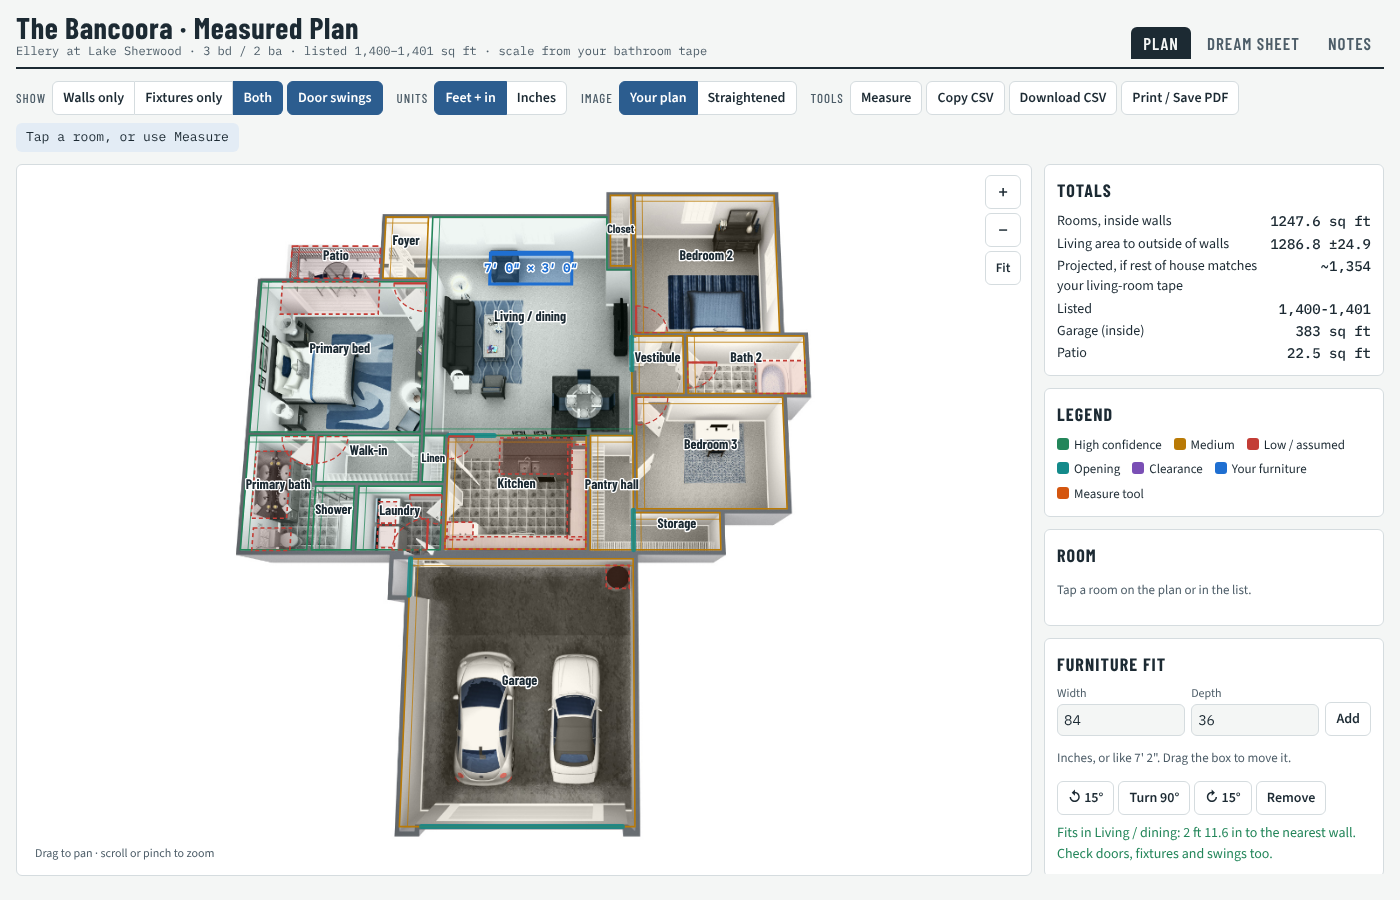
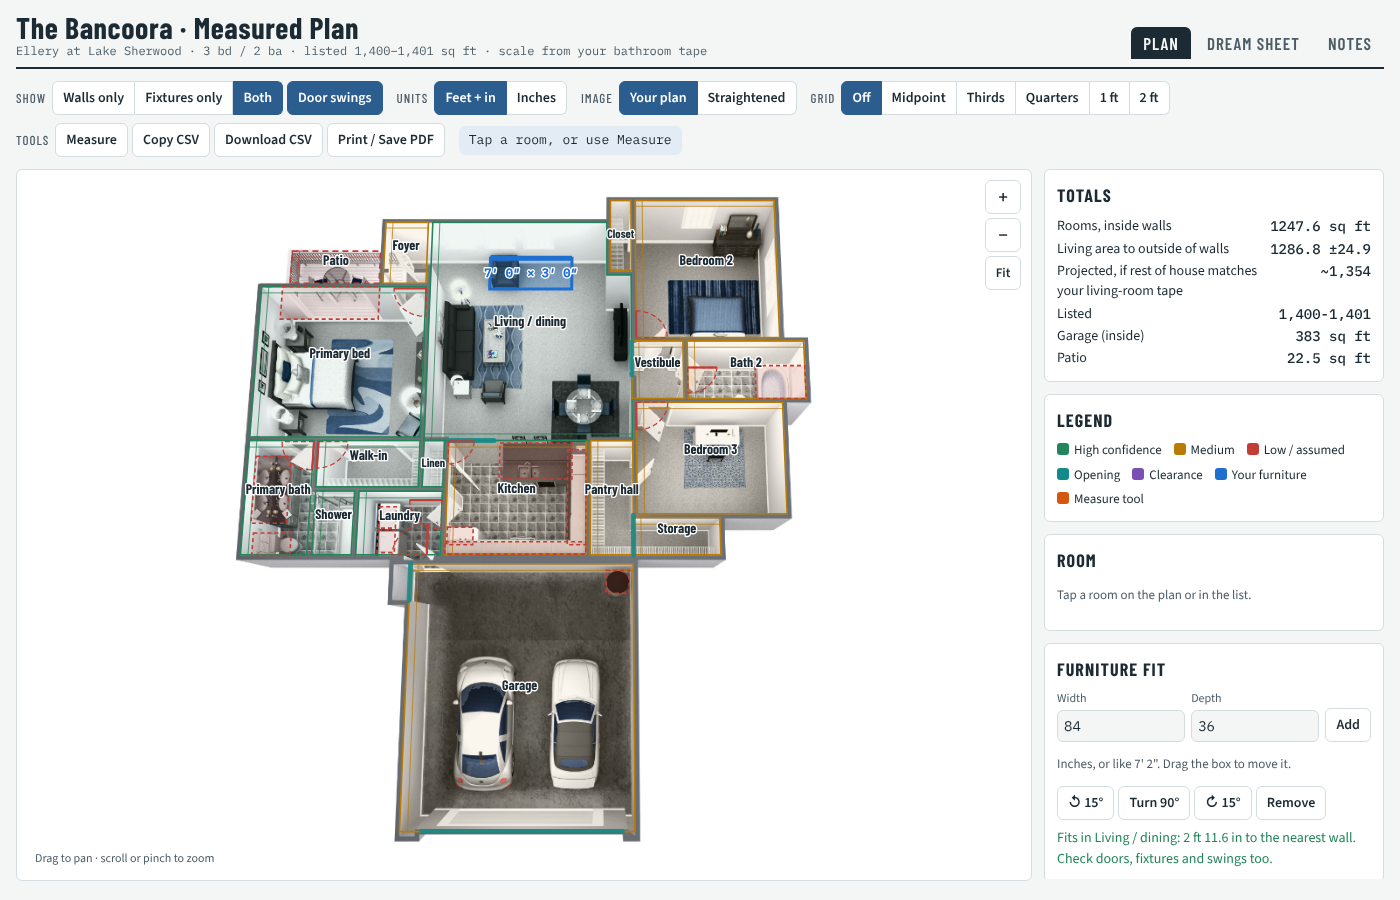
Add room grid (midpoint, thirds, quarters, 1 ft, 2 ft) with center point and wall distances
Claude-Session: https://claude.ai/code/session_013BUhmcHRt4UubDoSH6qQqY

diff --git a/floorplan/bancoora_viewer.html b/floorplan/bancoora_viewer.html
@@ -127,6 +127,11 @@ svg .lab-room{font-family:var(--font-display);font-weight:700}
         <button id="v-orig" aria-pressed="true">Your plan</button><button id="v-str" aria-pressed="false">Straightened</button>
       </div>
     </div>
+    <div class="grp"><span class="lbl">Grid</span>
+      <div class="seg" role="group" aria-label="Room grid">
+        <button id="g-off" data-g="off" aria-pressed="true">Off</button><button data-g="2" aria-pressed="false">Midpoint</button><button data-g="3" aria-pressed="false">Thirds</button><button data-g="4" aria-pressed="false">Quarters</button><button data-g="12" aria-pressed="false">1 ft</button><button data-g="24" aria-pressed="false">2 ft</button>
+      </div>
+    </div>
     <div class="grp"><span class="lbl">Tools</span>
       <button id="t-measure" aria-pressed="false">Measure</button>
       <button id="b-csv">Copy CSV</button>
@@ -242,9 +247,9 @@ function draw(){
   const c=color(r.confidence), sel=selRoom===r.id;
   const p=poly(r.poly||[[r.x0,r.y0],[r.x1,r.y0],[r.x1,r.y1],[r.x0,r.y1]],{fill:c,'fill-opacity':sel?0.22:0.07,stroke:c,'stroke-width':sel?3:1.6,'vector-effect':'non-scaling-stroke','stroke-dasharray':r.id==='P'?'6 4':'none',style:'cursor:pointer'},gRooms);
   p.addEventListener('click',e=>{if(measuring||dragging)return;selectRoom(r.id,false)});
-  const cx=(r.x0+r.x1)/2, cy=(r.y0+r.y1)/2, small=r.w_in<30||r.d_in<30;
-  text(cx,cy-(small?0:7),SHORT[r.id]||r.name,'lab-room',{fill:css('--ink'),'font-size':small?'1em':'1.15em'},gLab);
-  if(!small){text(cx,cy+7,`${r.scaled?'≈ ':''}${L(r.w_in)} × ${L(r.d_in)}`,'lab-sub',{fill:css('--ink-2')},gLab);text(cx,cy+19,`${r.sqft} sq ft`,'lab-sub',{fill:c},gLab)}
+  const cx=(r.x0+r.x1)/2, cy=(r.y0+r.y1)/2, small=r.w_in<30||r.d_in<30, gridded=gridMode!=='off'&&selRoom===r.id;
+  if(!gridded)text(cx,cy-(small?0:7),SHORT[r.id]||r.name,'lab-room',{fill:css('--ink'),'font-size':small?'1em':'1.15em'},gLab);
+  if(!small&&!gridded){text(cx,cy+7,`${r.scaled?'≈ ':''}${L(r.w_in)} × ${L(r.d_in)}`,'lab-sub',{fill:css('--ink-2')},gLab);text(cx,cy+19,`${r.sqft} sq ft`,'lab-sub',{fill:c},gLab)}
   if(showW&&!small){ // dimension lines inside room: width near north wall, depth near west wall
    const o=7;
    const wy=r.poly?r.y1-o:r.y0+o; dim([r.x0,wy],[r.x1,wy],r.w_in,c,gWalls,false,r.scaled);
@@ -275,8 +280,36 @@ function draw(){
   pline([[hx,hy],...arc,[hx,hy]],{stroke:css('--lo'),'stroke-width':1.3,'stroke-dasharray':'5 3',fill:css('--lo'),'fill-opacity':0.06,'vector-effect':'non-scaling-stroke'},gDoors);
   pline([[hx,hy],open],{stroke:css('--lo'),'stroke-width':2.2,'vector-effect':'non-scaling-stroke'},gDoors);
  }
- drawFurn(); applyT();
+ drawGrid(); drawFurn(); applyT();
 }
+let gridMode='off';
+function drawGrid(){
+ if(gridMode==='off'||!selRoom)return;
+ const r=roomById[selRoom]; if(!r)return;
+ const P0=rpoly(r), gc=css('--tool'), gl=css('--blue');
+ const g=el('g',{'pointer-events':'none'},ov);
+ const cid='clip-'+r.id; const cp=el('clipPath',{id:cid},g); poly(P0,{},cp);
+ const lines=el('g',{'clip-path':`url(#${cid})`},g);
+ const W=r.w_in, Dd=r.d_in, sx=(r.x1-r.x0)/W, sy=(r.y1-r.y0)/Dd;   // true inches -> drawing units
+ let xs=[], ys=[];
+ if(['2','3','4'].includes(gridMode)){const n=+gridMode;for(let i=1;i<n;i++){xs.push(W*i/n);ys.push(Dd*i/n)}}
+ else{const st=+gridMode;for(let v=st;v<W-0.5;v+=st)xs.push(v);for(let v=st;v<Dd-0.5;v+=st)ys.push(v)}
+ const labs=el('g',{},g);
+ for(const v of xs){const x=r.x0+v*sx;pline([[x,r.y0],[x,r.y1]],{stroke:gl,'stroke-width':1.2,'stroke-dasharray':'6 4','vector-effect':'non-scaling-stroke'},lines);
+  if(['2','3','4'].includes(gridMode)||xs.length<=14)text(x,r.y0+5,L(v),'lab-dim',{fill:gl},labs)}
+ for(const v of ys){const y=r.y0+v*sy;pline([[r.x0,y],[r.x1,y]],{stroke:gl,'stroke-width':1.2,'stroke-dasharray':'6 4','vector-effect':'non-scaling-stroke'},lines);
+  if(['2','3','4'].includes(gridMode)||ys.length<=14){const t=text(r.x0+5,y,L(v),'lab-dim',{fill:gl},labs);const[u,w]=P(r.x0+5,y);t.setAttribute('transform',`rotate(-90 ${u} ${w})`)}}
+ // centre lines + centre point (always)
+ const cx=r.x0+(W/2)*sx, cy=r.y0+(Dd/2)*sy;
+ pline([[cx,r.y0],[cx,r.y1]],{stroke:gc,'stroke-width':2,'vector-effect':'non-scaling-stroke'},lines);
+ pline([[r.x0,cy],[r.x1,cy]],{stroke:gc,'stroke-width':2,'vector-effect':'non-scaling-stroke'},lines);
+ const[u,v]=P(cx,cy);el('circle',{cx:u,cy:v,r:5/k,fill:gc,stroke:css('--sheet'),'stroke-width':2/k},g);
+ text(cx,cy-9,`Center · ${L(W/2)} from W & E walls · ${L(Dd/2)} from N & S walls`,'',{fill:gc,'font-weight':'600'},g);
+ $('#readout').textContent=`${r.name} center: ${LL(W/2)} from the side walls, ${LL(Dd/2)} from the front/back walls`+(r.poly?' (L-shaped room: center of its full outline)':'');
+}
+function setGrid(m){gridMode=m;document.querySelectorAll('[data-g]').forEach(b=>b.setAttribute('aria-pressed',b.dataset.g===m));
+ if(m!=='off'&&!selRoom)$('#readout').textContent='Tap a room to grid it';draw()}
+document.querySelectorAll('[data-g]').forEach(b=>b.onclick=()=>setGrid(b.dataset.g));
 function dim(a,b,val,c,parent,vert,approx){
  pline([a,b],{stroke:c,'stroke-width':1,'vector-effect':'non-scaling-stroke','stroke-opacity':0.75},parent);
  for(const q of [a,b]){const t=vert?[[q[0]-3,q[1]],[q[0]+3,q[1]]]:[[q[0],q[1]-3],[q[0],q[1]+3]];pline(t,{stroke:c,'stroke-width':1,'vector-effect':'non-scaling-stroke'},parent)}

diff --git a/floorplan/stage5/bancoora_viewer_artifact.html b/floorplan/stage5/bancoora_viewer_artifact.html
@@ -127,6 +127,11 @@ svg .lab-room{font-family:var(--font-display);font-weight:700}
         <button id="v-orig" aria-pressed="true">Your plan</button><button id="v-str" aria-pressed="false">Straightened</button>
       </div>
     </div>
+    <div class="grp"><span class="lbl">Grid</span>
+      <div class="seg" role="group" aria-label="Room grid">
+        <button id="g-off" data-g="off" aria-pressed="true">Off</button><button data-g="2" aria-pressed="false">Midpoint</button><button data-g="3" aria-pressed="false">Thirds</button><button data-g="4" aria-pressed="false">Quarters</button><button data-g="12" aria-pressed="false">1 ft</button><button data-g="24" aria-pressed="false">2 ft</button>
+      </div>
+    </div>
     <div class="grp"><span class="lbl">Tools</span>
       <button id="t-measure" aria-pressed="false">Measure</button>
       <button id="b-csv">Copy CSV</button>
@@ -242,9 +247,9 @@ function draw(){
   const c=color(r.confidence), sel=selRoom===r.id;
   const p=poly(r.poly||[[r.x0,r.y0],[r.x1,r.y0],[r.x1,r.y1],[r.x0,r.y1]],{fill:c,'fill-opacity':sel?0.22:0.07,stroke:c,'stroke-width':sel?3:1.6,'vector-effect':'non-scaling-stroke','stroke-dasharray':r.id==='P'?'6 4':'none',style:'cursor:pointer'},gRooms);
   p.addEventListener('click',e=>{if(measuring||dragging)return;selectRoom(r.id,false)});
-  const cx=(r.x0+r.x1)/2, cy=(r.y0+r.y1)/2, small=r.w_in<30||r.d_in<30;
-  text(cx,cy-(small?0:7),SHORT[r.id]||r.name,'lab-room',{fill:css('--ink'),'font-size':small?'1em':'1.15em'},gLab);
-  if(!small){text(cx,cy+7,`${r.scaled?'≈ ':''}${L(r.w_in)} × ${L(r.d_in)}`,'lab-sub',{fill:css('--ink-2')},gLab);text(cx,cy+19,`${r.sqft} sq ft`,'lab-sub',{fill:c},gLab)}
+  const cx=(r.x0+r.x1)/2, cy=(r.y0+r.y1)/2, small=r.w_in<30||r.d_in<30, gridded=gridMode!=='off'&&selRoom===r.id;
+  if(!gridded)text(cx,cy-(small?0:7),SHORT[r.id]||r.name,'lab-room',{fill:css('--ink'),'font-size':small?'1em':'1.15em'},gLab);
+  if(!small&&!gridded){text(cx,cy+7,`${r.scaled?'≈ ':''}${L(r.w_in)} × ${L(r.d_in)}`,'lab-sub',{fill:css('--ink-2')},gLab);text(cx,cy+19,`${r.sqft} sq ft`,'lab-sub',{fill:c},gLab)}
   if(showW&&!small){ // dimension lines inside room: width near north wall, depth near west wall
    const o=7;
    const wy=r.poly?r.y1-o:r.y0+o; dim([r.x0,wy],[r.x1,wy],r.w_in,c,gWalls,false,r.scaled);
@@ -275,8 +280,36 @@ function draw(){
   pline([[hx,hy],...arc,[hx,hy]],{stroke:css('--lo'),'stroke-width':1.3,'stroke-dasharray':'5 3',fill:css('--lo'),'fill-opacity':0.06,'vector-effect':'non-scaling-stroke'},gDoors);
   pline([[hx,hy],open],{stroke:css('--lo'),'stroke-width':2.2,'vector-effect':'non-scaling-stroke'},gDoors);
  }
- drawFurn(); applyT();
+ drawGrid(); drawFurn(); applyT();
 }
+let gridMode='off';
+function drawGrid(){
+ if(gridMode==='off'||!selRoom)return;
+ const r=roomById[selRoom]; if(!r)return;
+ const P0=rpoly(r), gc=css('--tool'), gl=css('--blue');
+ const g=el('g',{'pointer-events':'none'},ov);
+ const cid='clip-'+r.id; const cp=el('clipPath',{id:cid},g); poly(P0,{},cp);
+ const lines=el('g',{'clip-path':`url(#${cid})`},g);
+ const W=r.w_in, Dd=r.d_in, sx=(r.x1-r.x0)/W, sy=(r.y1-r.y0)/Dd;   // true inches -> drawing units
+ let xs=[], ys=[];
+ if(['2','3','4'].includes(gridMode)){const n=+gridMode;for(let i=1;i<n;i++){xs.push(W*i/n);ys.push(Dd*i/n)}}
+ else{const st=+gridMode;for(let v=st;v<W-0.5;v+=st)xs.push(v);for(let v=st;v<Dd-0.5;v+=st)ys.push(v)}
+ const labs=el('g',{},g);
+ for(const v of xs){const x=r.x0+v*sx;pline([[x,r.y0],[x,r.y1]],{stroke:gl,'stroke-width':1.2,'stroke-dasharray':'6 4','vector-effect':'non-scaling-stroke'},lines);
+  if(['2','3','4'].includes(gridMode)||xs.length<=14)text(x,r.y0+5,L(v),'lab-dim',{fill:gl},labs)}
+ for(const v of ys){const y=r.y0+v*sy;pline([[r.x0,y],[r.x1,y]],{stroke:gl,'stroke-width':1.2,'stroke-dasharray':'6 4','vector-effect':'non-scaling-stroke'},lines);
+  if(['2','3','4'].includes(gridMode)||ys.length<=14){const t=text(r.x0+5,y,L(v),'lab-dim',{fill:gl},labs);const[u,w]=P(r.x0+5,y);t.setAttribute('transform',`rotate(-90 ${u} ${w})`)}}
+ // centre lines + centre point (always)
+ const cx=r.x0+(W/2)*sx, cy=r.y0+(Dd/2)*sy;
+ pline([[cx,r.y0],[cx,r.y1]],{stroke:gc,'stroke-width':2,'vector-effect':'non-scaling-stroke'},lines);
+ pline([[r.x0,cy],[r.x1,cy]],{stroke:gc,'stroke-width':2,'vector-effect':'non-scaling-stroke'},lines);
+ const[u,v]=P(cx,cy);el('circle',{cx:u,cy:v,r:5/k,fill:gc,stroke:css('--sheet'),'stroke-width':2/k},g);
+ text(cx,cy-9,`Center · ${L(W/2)} from W & E walls · ${L(Dd/2)} from N & S walls`,'',{fill:gc,'font-weight':'600'},g);
+ $('#readout').textContent=`${r.name} center: ${LL(W/2)} from the side walls, ${LL(Dd/2)} from the front/back walls`+(r.poly?' (L-shaped room: center of its full outline)':'');
+}
+function setGrid(m){gridMode=m;document.querySelectorAll('[data-g]').forEach(b=>b.setAttribute('aria-pressed',b.dataset.g===m));
+ if(m!=='off'&&!selRoom)$('#readout').textContent='Tap a room to grid it';draw()}
+document.querySelectorAll('[data-g]').forEach(b=>b.onclick=()=>setGrid(b.dataset.g));
 function dim(a,b,val,c,parent,vert,approx){
  pline([a,b],{stroke:c,'stroke-width':1,'vector-effect':'non-scaling-stroke','stroke-opacity':0.75},parent);
  for(const q of [a,b]){const t=vert?[[q[0]-3,q[1]],[q[0]+3,q[1]]]:[[q[0],q[1]-3],[q[0],q[1]+3]];pline(t,{stroke:c,'stroke-width':1,'vector-effect':'non-scaling-stroke'},parent)}

diff --git a/floorplan/stage5/template.html b/floorplan/stage5/template.html
@@ -127,6 +127,11 @@ svg .lab-room{font-family:var(--font-display);font-weight:700}
         <button id="v-orig" aria-pressed="true">Your plan</button><button id="v-str" aria-pressed="false">Straightened</button>
       </div>
     </div>
+    <div class="grp"><span class="lbl">Grid</span>
+      <div class="seg" role="group" aria-label="Room grid">
+        <button id="g-off" data-g="off" aria-pressed="true">Off</button><button data-g="2" aria-pressed="false">Midpoint</button><button data-g="3" aria-pressed="false">Thirds</button><button data-g="4" aria-pressed="false">Quarters</button><button data-g="12" aria-pressed="false">1 ft</button><button data-g="24" aria-pressed="false">2 ft</button>
+      </div>
+    </div>
     <div class="grp"><span class="lbl">Tools</span>
       <button id="t-measure" aria-pressed="false">Measure</button>
       <button id="b-csv">Copy CSV</button>
@@ -242,9 +247,9 @@ function draw(){
   const c=color(r.confidence), sel=selRoom===r.id;
   const p=poly(r.poly||[[r.x0,r.y0],[r.x1,r.y0],[r.x1,r.y1],[r.x0,r.y1]],{fill:c,'fill-opacity':sel?0.22:0.07,stroke:c,'stroke-width':sel?3:1.6,'vector-effect':'non-scaling-stroke','stroke-dasharray':r.id==='P'?'6 4':'none',style:'cursor:pointer'},gRooms);
   p.addEventListener('click',e=>{if(measuring||dragging)return;selectRoom(r.id,false)});
-  const cx=(r.x0+r.x1)/2, cy=(r.y0+r.y1)/2, small=r.w_in<30||r.d_in<30;
-  text(cx,cy-(small?0:7),SHORT[r.id]||r.name,'lab-room',{fill:css('--ink'),'font-size':small?'1em':'1.15em'},gLab);
-  if(!small){text(cx,cy+7,`${r.scaled?'≈ ':''}${L(r.w_in)} × ${L(r.d_in)}`,'lab-sub',{fill:css('--ink-2')},gLab);text(cx,cy+19,`${r.sqft} sq ft`,'lab-sub',{fill:c},gLab)}
+  const cx=(r.x0+r.x1)/2, cy=(r.y0+r.y1)/2, small=r.w_in<30||r.d_in<30, gridded=gridMode!=='off'&&selRoom===r.id;
+  if(!gridded)text(cx,cy-(small?0:7),SHORT[r.id]||r.name,'lab-room',{fill:css('--ink'),'font-size':small?'1em':'1.15em'},gLab);
+  if(!small&&!gridded){text(cx,cy+7,`${r.scaled?'≈ ':''}${L(r.w_in)} × ${L(r.d_in)}`,'lab-sub',{fill:css('--ink-2')},gLab);text(cx,cy+19,`${r.sqft} sq ft`,'lab-sub',{fill:c},gLab)}
   if(showW&&!small){ // dimension lines inside room: width near north wall, depth near west wall
    const o=7;
    const wy=r.poly?r.y1-o:r.y0+o; dim([r.x0,wy],[r.x1,wy],r.w_in,c,gWalls,false,r.scaled);
@@ -275,8 +280,36 @@ function draw(){
   pline([[hx,hy],...arc,[hx,hy]],{stroke:css('--lo'),'stroke-width':1.3,'stroke-dasharray':'5 3',fill:css('--lo'),'fill-opacity':0.06,'vector-effect':'non-scaling-stroke'},gDoors);
   pline([[hx,hy],open],{stroke:css('--lo'),'stroke-width':2.2,'vector-effect':'non-scaling-stroke'},gDoors);
  }
- drawFurn(); applyT();
+ drawGrid(); drawFurn(); applyT();
 }
+let gridMode='off';
+function drawGrid(){
+ if(gridMode==='off'||!selRoom)return;
+ const r=roomById[selRoom]; if(!r)return;
+ const P0=rpoly(r), gc=css('--tool'), gl=css('--blue');
+ const g=el('g',{'pointer-events':'none'},ov);
+ const cid='clip-'+r.id; const cp=el('clipPath',{id:cid},g); poly(P0,{},cp);
+ const lines=el('g',{'clip-path':`url(#${cid})`},g);
+ const W=r.w_in, Dd=r.d_in, sx=(r.x1-r.x0)/W, sy=(r.y1-r.y0)/Dd;   // true inches -> drawing units
+ let xs=[], ys=[];
+ if(['2','3','4'].includes(gridMode)){const n=+gridMode;for(let i=1;i<n;i++){xs.push(W*i/n);ys.push(Dd*i/n)}}
+ else{const st=+gridMode;for(let v=st;v<W-0.5;v+=st)xs.push(v);for(let v=st;v<Dd-0.5;v+=st)ys.push(v)}
+ const labs=el('g',{},g);
+ for(const v of xs){const x=r.x0+v*sx;pline([[x,r.y0],[x,r.y1]],{stroke:gl,'stroke-width':1.2,'stroke-dasharray':'6 4','vector-effect':'non-scaling-stroke'},lines);
+  if(['2','3','4'].includes(gridMode)||xs.length<=14)text(x,r.y0+5,L(v),'lab-dim',{fill:gl},labs)}
+ for(const v of ys){const y=r.y0+v*sy;pline([[r.x0,y],[r.x1,y]],{stroke:gl,'stroke-width':1.2,'stroke-dasharray':'6 4','vector-effect':'non-scaling-stroke'},lines);
+  if(['2','3','4'].includes(gridMode)||ys.length<=14){const t=text(r.x0+5,y,L(v),'lab-dim',{fill:gl},labs);const[u,w]=P(r.x0+5,y);t.setAttribute('transform',`rotate(-90 ${u} ${w})`)}}
+ // centre lines + centre point (always)
+ const cx=r.x0+(W/2)*sx, cy=r.y0+(Dd/2)*sy;
+ pline([[cx,r.y0],[cx,r.y1]],{stroke:gc,'stroke-width':2,'vector-effect':'non-scaling-stroke'},lines);
+ pline([[r.x0,cy],[r.x1,cy]],{stroke:gc,'stroke-width':2,'vector-effect':'non-scaling-stroke'},lines);
+ const[u,v]=P(cx,cy);el('circle',{cx:u,cy:v,r:5/k,fill:gc,stroke:css('--sheet'),'stroke-width':2/k},g);
+ text(cx,cy-9,`Center · ${L(W/2)} from W & E walls · ${L(Dd/2)} from N & S walls`,'',{fill:gc,'font-weight':'600'},g);
+ $('#readout').textContent=`${r.name} center: ${LL(W/2)} from the side walls, ${LL(Dd/2)} from the front/back walls`+(r.poly?' (L-shaped room: center of its full outline)':'');
+}
+function setGrid(m){gridMode=m;document.querySelectorAll('[data-g]').forEach(b=>b.setAttribute('aria-pressed',b.dataset.g===m));
+ if(m!=='off'&&!selRoom)$('#readout').textContent='Tap a room to grid it';draw()}
+document.querySelectorAll('[data-g]').forEach(b=>b.onclick=()=>setGrid(b.dataset.g));
 function dim(a,b,val,c,parent,vert,approx){
  pline([a,b],{stroke:c,'stroke-width':1,'vector-effect':'non-scaling-stroke','stroke-opacity':0.75},parent);
  for(const q of [a,b]){const t=vert?[[q[0]-3,q[1]],[q[0]+3,q[1]]]:[[q[0],q[1]-3],[q[0],q[1]+3]];pline(t,{stroke:c,'stroke-width':1,'vector-effect':'non-scaling-stroke'},parent)}
